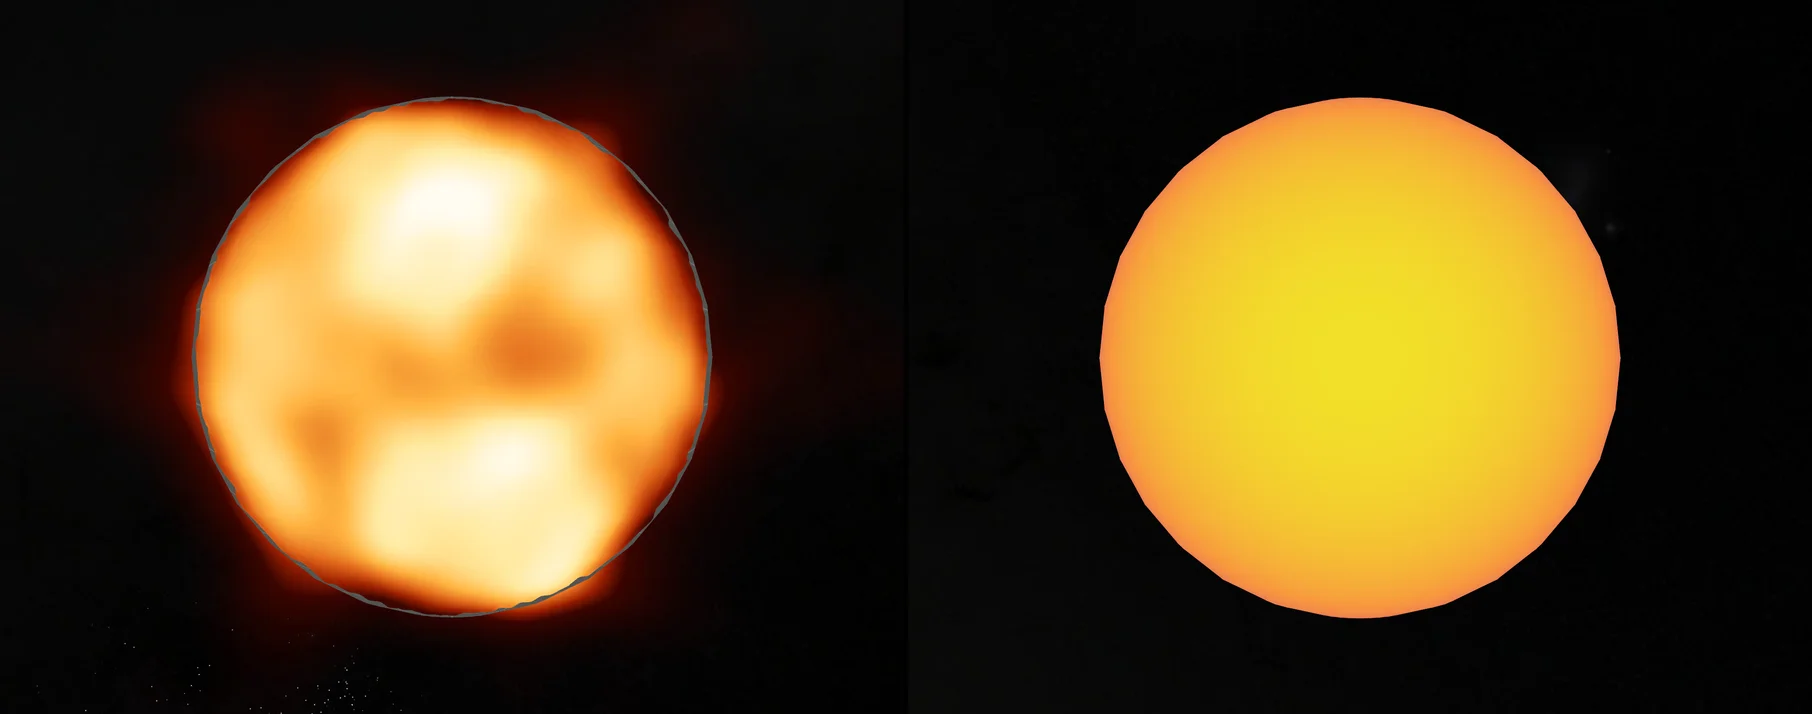
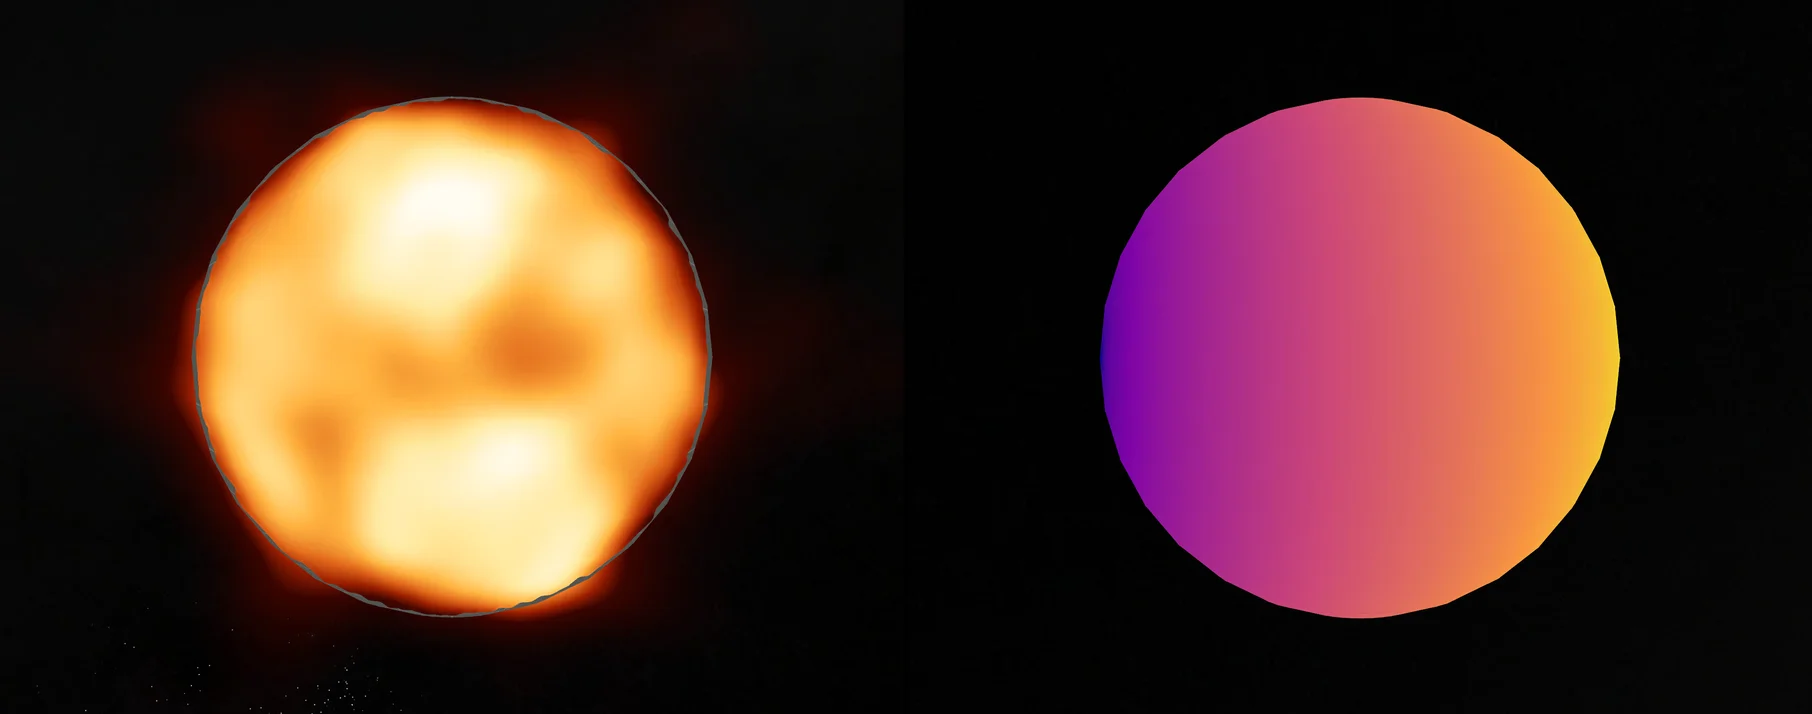
docs(readme): turn TRAPPIST-1b to show its day and night sides

Changed region(s): [[0.5872, 0.1232, 0.8962, 0.8627]]

diff --git a/README.md b/README.md
@@ -22,7 +22,7 @@ The Sun, the eight planets, 5 dwarf planets, 99 moons, 311 asteroids, 32 comets 
 
 Stars whose surfaces have been imaged, such as Betelgeuse and R Doradus, and planetary systems beyond the Sun, such as WASP-43, HD 189733 and TRAPPIST-1.
 
-<img src=".github/assets/stars-exoplanets.webp" alt="Betelgeuse's imaged surface, and TRAPPIST-1b's dayside temperature map from JWST MIRI at 15 µm, rendered as DOM and CSS markup" width="960">
+<img src=".github/assets/stars-exoplanets.webp" alt="Betelgeuse's imaged surface, and the planet TRAPPIST-1b coloured by its JWST MIRI 15 µm temperature map, hot day side to cold night side, rendered as DOM and CSS markup" width="960">
 
 ### Nebulae
 
